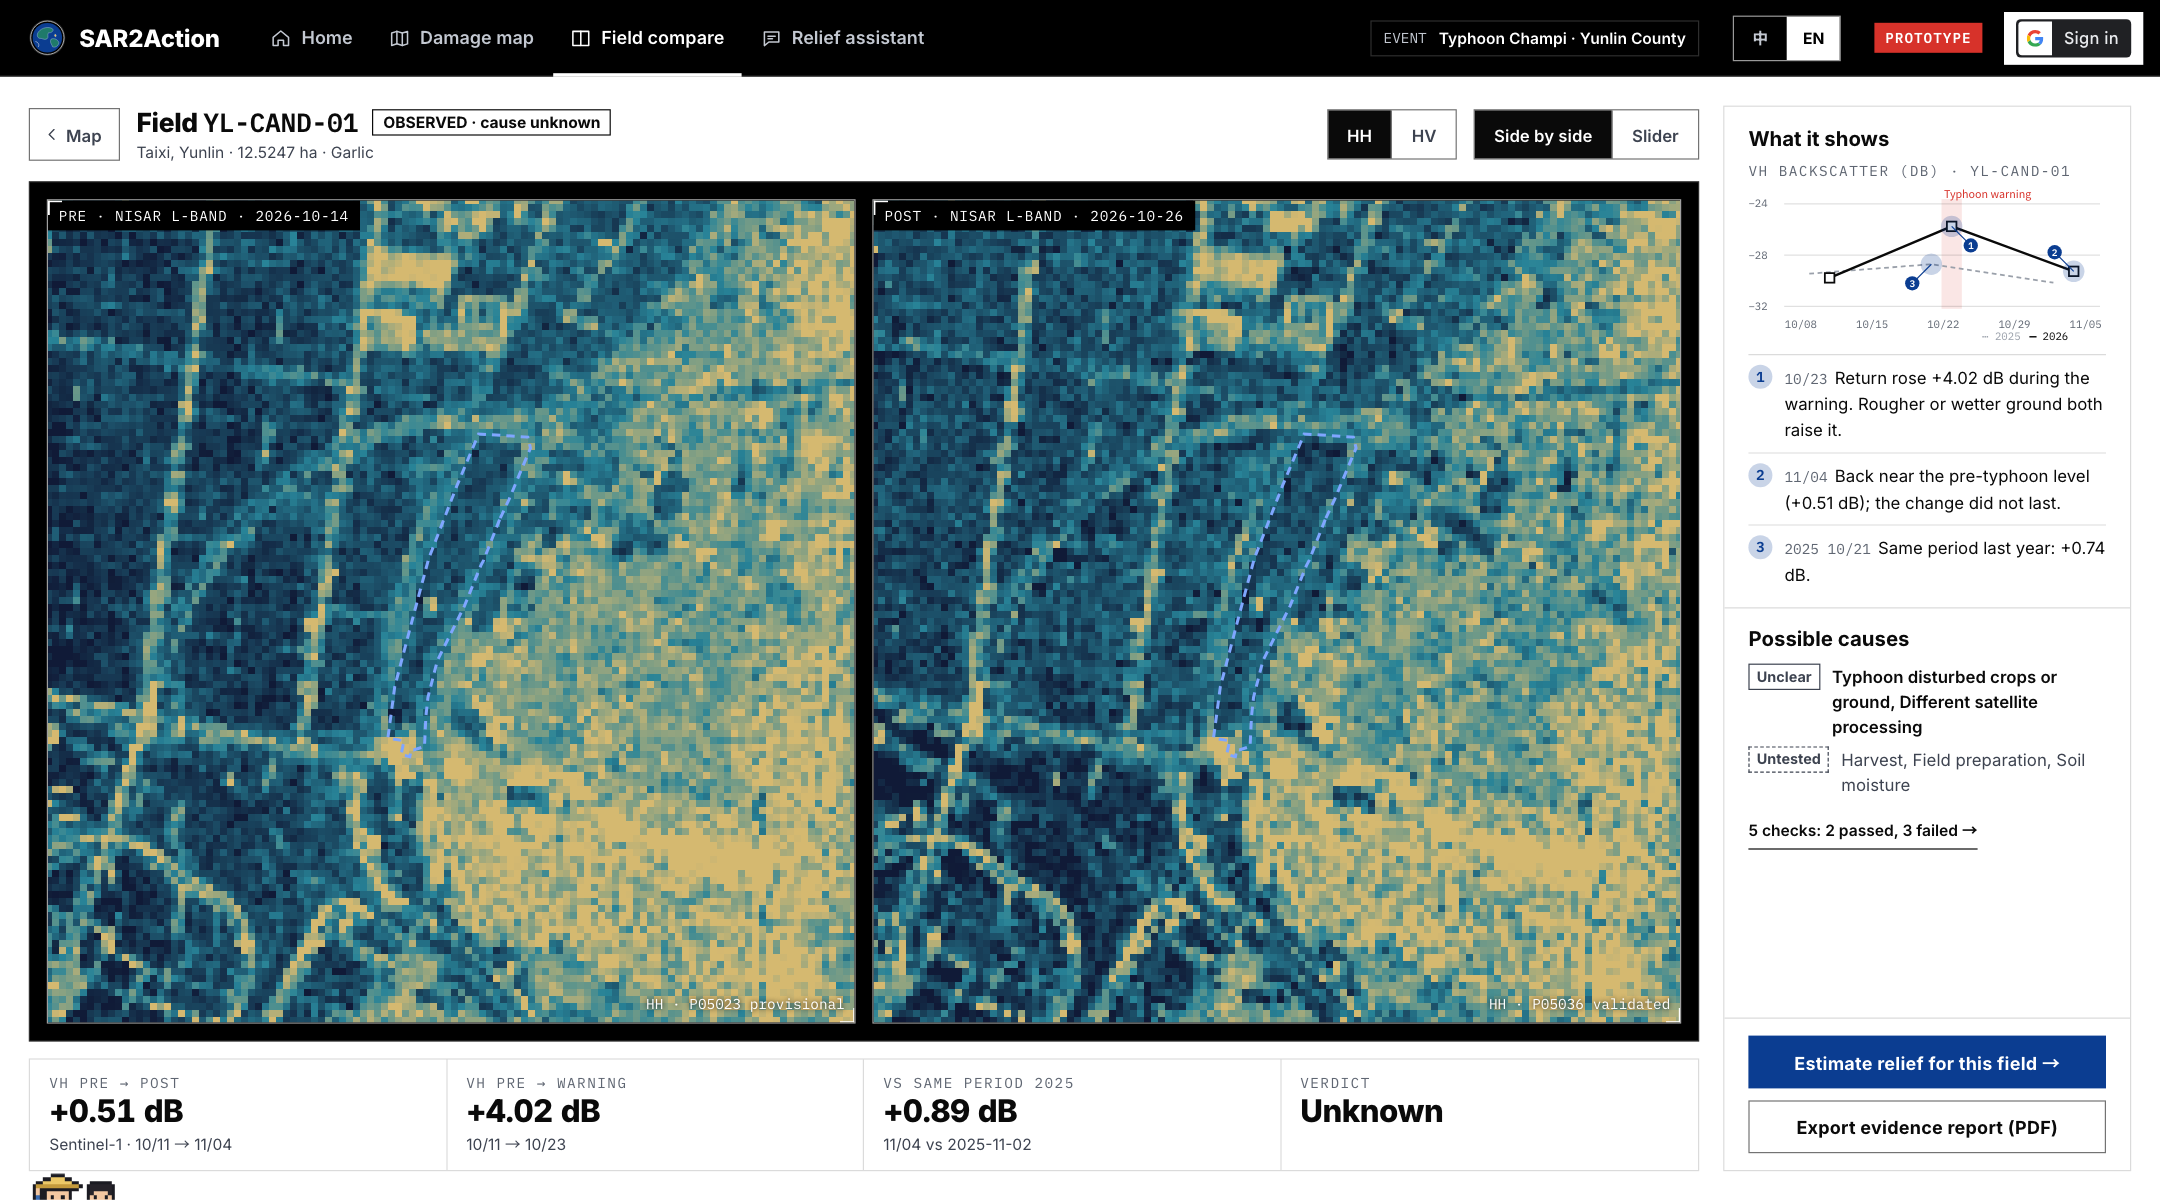
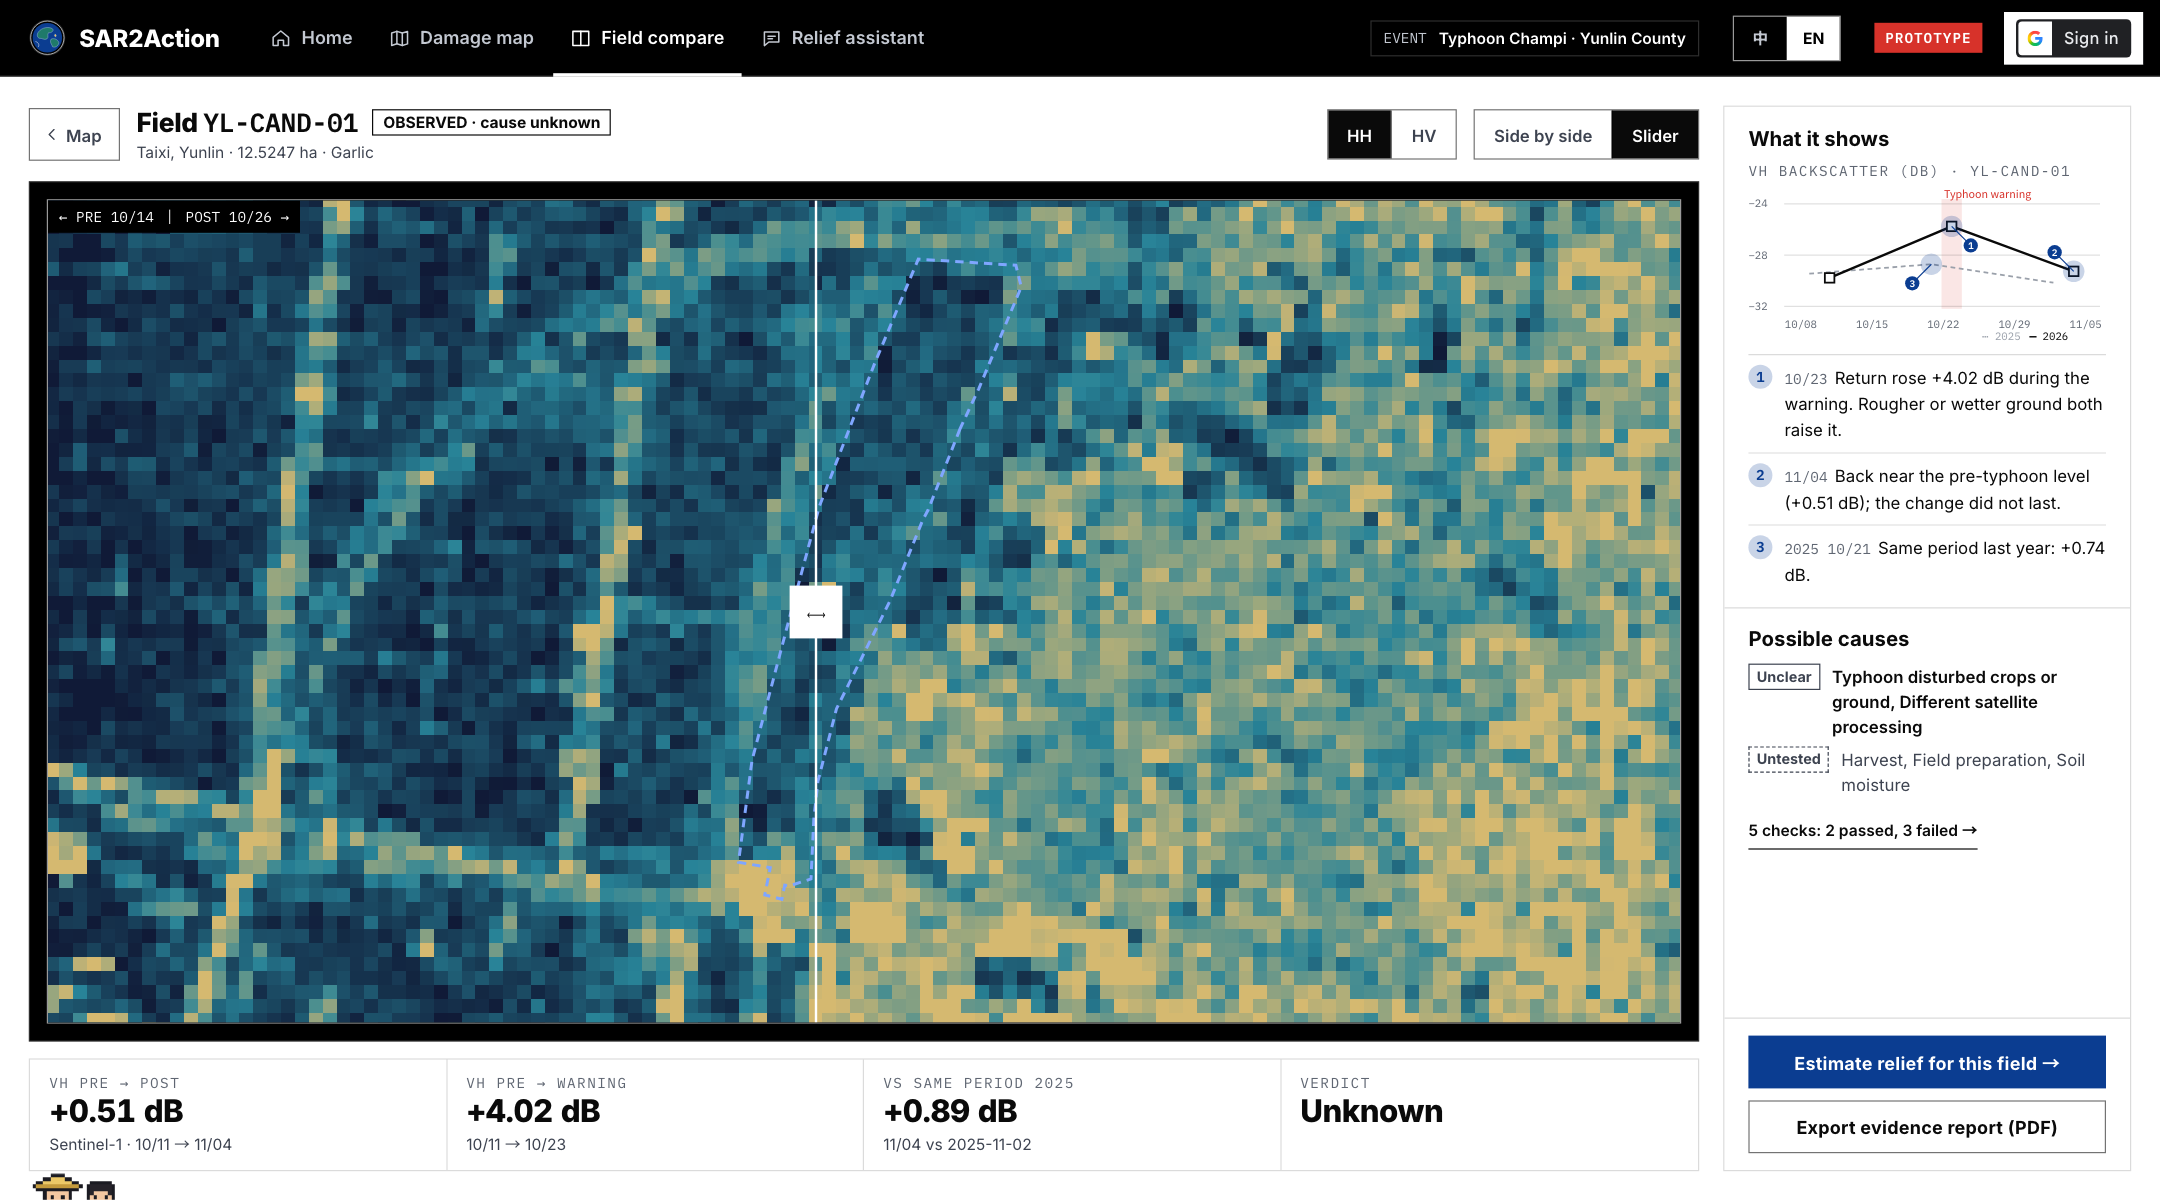
Show the field compare slider through the field in both READMEs

diff --git a/README.md b/README.md
@@ -65,9 +65,9 @@ On the map you can switch NISAR false-colour images from before and after (R=HH,
 
 ### Field compare
 
-<img src="docs/readme-assets/04-field-compare.en.png" alt="Field compare: NISAR ascending 10/14 and 10/26 side by side, with the VH time series and possible causes on the right" width="100%" />
+<img src="docs/readme-assets/04-field-compare.en.png" alt="Field compare slider: the line runs through the field, 10/14 before the typhoon on the left, 10/26 after on the right" width="100%" />
 
-Click a candidate field to see NISAR before and after, side by side or with a slider, in HH or HV. We use the ascending pair 10/14 → 10/26 because both passes cover all of Taixi. On the right: the field's Sentinel-1 VH time series, how it compares to the same time last year, and the causes we can't rule out yet.
+Click a candidate field to see NISAR before and after. Drag the slider: 10/14 (before) is on the left, 10/26 (after) on the right. Put the line through the field (blue dashed outline) and you can see the change on the same field right away. You can switch HH/HV or go side by side. Both passes are ascending and cover all of Taixi. On the right: the field's Sentinel-1 VH time series, how it compares to the same time last year, and the causes we can't rule out yet.
 
 ---
 

diff --git a/README.zh-TW.md b/README.zh-TW.md
@@ -65,9 +65,9 @@ SAR2Action 把兩件事接起來：用 NASA NISAR 和 Sentinel-1 雷達估算全
 
 ### 田區比對
 
-<img src="docs/readme-assets/04-field-compare.png" alt="田區比對：NISAR 上升軌道 10/14 與 10/26 並排，右側是 VH 時序與可能原因" width="100%" />
+<img src="docs/readme-assets/04-field-compare.png" alt="田區比對滑桿：分界線切過田區，左邊是 10/14 颱風前，右邊是 10/26 颱風後" width="100%" />
 
-點一塊候選田就能看颱風前後的 NISAR 影像，可以並排或用滑桿比對，HH、HV 都有。比對用上升軌道 10/14 → 10/26，兩期都拍到整個台西鄉。右側列出這塊田的 Sentinel-1 VH 時序、跟去年同期的差異，以及還沒排除的可能原因。
+點一塊候選田就能看颱風前後的 NISAR 影像。拖動中間的滑桿，左邊是 10/14 颱風前，右邊是 10/26 颱風後；分界線切過田區（藍色虛線），同一塊田前後的差別一眼就看得出來。HH、HV 都能切換，也可以改成並排。兩期都是上升軌道，整個台西鄉都有拍到。右側列出這塊田的 Sentinel-1 VH 時序、跟去年同期的差異，以及還沒排除的可能原因。
 
 ---
 
